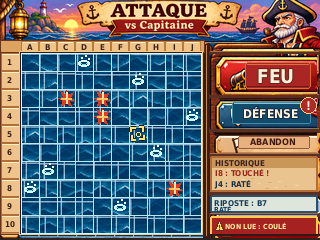
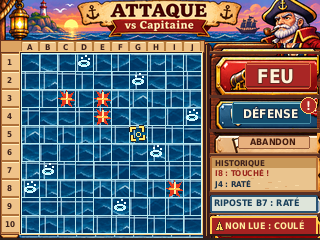
design(g04-r2): correct riposte, add 4 visual states and pixel-grid PC evidence (Refs #45)

Changed region(s): [[0.6562, 0.8167, 0.9688, 0.9625]]

diff --git a/design/ecrans/attaque/build_g04_r2.py b/design/ecrans/attaque/build_g04_r2.py
@@ -8,8 +8,12 @@ individually editable in this Python source.  Preview only, no firmware assets.
 from pathlib import Path
 import json, hashlib, math
 from PIL import Image, ImageDraw, ImageFont
+import PIL
 
 ROOT=Path(__file__).resolve().parent
+FONT_PATH=Path('/usr/share/fonts/truetype/dejavu/DejaVuSansCondensed-Bold.ttf')
+assert FONT_PATH.is_file(), 'Police requise : fonts-dejavu-core (Debian/Ubuntu)'
+assert PIL.__version__ == '12.3.0', f'Pillow 12.3.0 requis pour export reproductible, obtenu {PIL.__version__}'
 REF=ROOT/'reference_concept_1448x1086.png'
 W,H=320,240
 GX,GY,CELL=21,53,18
@@ -28,7 +32,7 @@ def patch(bounds,dest,scale=Image.Resampling.LANCZOS):
     im.paste(cropped,(x,y))
 
 def txt(pos,text,size,color,stroke=0,stroke_fill=None,anchor=None):
-    font=ImageFont.truetype('/usr/share/fonts/truetype/dejavu/DejaVuSansCondensed-Bold.ttf',size)
+    font=ImageFont.truetype(str(FONT_PATH),size)
     ImageDraw.Draw(im).text(pos,text,font=font,fill=color,anchor=anchor,stroke_width=stroke,stroke_fill=stroke_fill)
 
 def ink_box(rect,fill,edge,rounding=2,edgewidth=1):
@@ -159,14 +163,23 @@ txt((215,184),'J4 : RATÉ',8,'#1B3046',anchor='lm')
 patch((876,791,1383,864),(210,195,107,18))
 d=ImageDraw.Draw(im)
 d.rounded_rectangle((210,195,317,212),radius=2,fill='#DEE5DA',outline='#285271',width=2)
-txt((214,203),'RIPOSTE : B7',8,'#183F5A',anchor='lm')
-txt((214,209),'RATÉ',7,'#183F5A',anchor='lm')
+# One single optically centered baseline, inside the 18px frame. Never clipped.
+txt((214,203),'RIPOSTE B7 : RATÉ',9,'#183F5A',anchor='lm')
 patch((874,878,1393,968),(210,215,107,20))
 d=ImageDraw.Draw(im)
 d.rounded_rectangle((210,216,317,235),radius=2,fill='#A62221',outline='#FFCC52',width=2)
 d.polygon([(215,230),(219,220),(223,230)],fill='#FFE365',outline='#622F22')
 txt((219,227),'!',7,'#63201E',anchor='mm')
-txt((225,226),'NON LUE : COULÉ',7,'#FFEEA0',stroke=0,anchor='lm')
+txt((225,226),'NON LUE : COULÉ',9,'#FFEEA0',stroke=0,anchor='lm')
+
+# Check textual bounding boxes inside the visible cards at authoring time.
+# These are real font bounds, not claimed optical sizes from a screenshot.
+for pos,label,size,area in [
+    ((214,203),'RIPOSTE B7 : RATÉ',9,(213,196,314,211)),
+    ((225,226),'NON LUE : COULÉ',9,(224,218,314,232)),
+]:
+    bounds=ImageDraw.Draw(im).textbbox(pos,label,font=ImageFont.truetype(str(FONT_PATH),size),anchor='lm')
+    assert area[0]<=bounds[0] and area[1]<=bounds[1] and bounds[2]<=area[2] and bounds[3]<=area[3],(label,bounds,area)
 
 # Hardware framing; text in the right strip intentionally limited.
 d=ImageDraw.Draw(im)
@@ -177,18 +190,75 @@ out=ROOT/'g04_r2_attaque_320x240.png'
 im.save(out,optimize=True)
 zoom=im.resize((1280,960),Image.Resampling.NEAREST)
 zoom.save(ROOT/'g04_r2_attaque_x4.png',optimize=True)
+
+# Four *focused* interaction vignettes: not four competing full game screens.
+# Cards are genuinely authored at 320x240, with painted portions from the same
+# source as the primary screenshot. Labels and game-state markers are native pixels.
+states=Image.new('RGB',(320,240),'#301E26')
+sd=ImageDraw.Draw(states)
+wood=ref.crop((878,187,1398,966)).resize((320,240),Image.Resampling.LANCZOS)
+states.paste(Image.blend(wood,states,.54))
+sd=ImageDraw.Draw(states)
+sd.rectangle((0,0,319,27),fill='#34242B')
+sd.line((0,26,319,26),fill='#D59A5E',width=1)
+SF=ImageFont.truetype(str(FONT_PATH),9)
+S8=ImageFont.truetype(str(FONT_PATH),8)
+S7=ImageFont.truetype(str(FONT_PATH),7)
+def slabel(pos,t,color='#FFF0C9',font=None,anchor=None):
+    ImageDraw.Draw(states).text(pos,t,font=font or SF,fill=color,anchor=anchor)
+def card(x,y,title):
+    dd=ImageDraw.Draw(states)
+    dd.rounded_rectangle((x,y,x+153,y+99),radius=3,fill='#392A35',outline='#FFC780',width=2)
+    dd.rounded_rectangle((x+3,y+3,x+150,y+97),radius=2,fill='#123F56',outline='#BA8B5C',width=1)
+    dd.rectangle((x+4,y+4,x+149,y+18),fill='#A86542')
+    dd.line((x+5,y+5,x+147,y+5),fill='#F1CB85',width=1)
+    slabel((x+9,y+13),title,'#FFF2C7',SF,anchor='lm')
+
+def plate(x,y,w,h,color='#B54429',disabled=False):
+    dd=ImageDraw.Draw(states)
+    dd.rounded_rectangle((x,y,x+w,y+h),radius=3,fill='#C79A51' if not disabled else '#716D6B',outline='#FFF0B7' if not disabled else '#A2A4A4',width=2)
+    dd.rounded_rectangle((x+3,y+3,x+w-3,y+h-3),radius=2,fill=color if not disabled else '#666C70',outline='#6F2D2B' if not disabled else '#454C52',width=1)
+
+# 320x240 native, 2x2 cropped state demonstrations; all preserve G04 art grammar.
+slabel((8,5),'ATTAQUE · ÉTATS VISUELS','#FBE1A9',ImageFont.truetype(str(FONT_PATH),11))
+slabel((8,19),'Quatre vignettes ciblées — règles métier inchangées','#E9D6B7',S7)
+card(4,29,'A · SANS CIBLE')
+plate(14,57,135,29,'#797D81',True)
+slabel((81,71),'FEU INDISPONIBLE','#E0E3DD',SF,anchor='mm')
+slabel((14,109),'Aucune case préparée','#F5D9AA',S8)
+card(163,29,'B · FEU ENGAGÉ')
+plate(173,53,133,25,'#8E3734')
+slabel((238,66),'FEU · TIR EN COURS','#FFF0C9',SF,anchor='mm')
+plate(173,81,65,18,'#64727B',True); plate(241,81,65,18,'#64727B',True)
+slabel((206,90),'DÉFENSE','#E4E4DF',S8,anchor='mm'); slabel((273,90),'ABANDON','#E4E4DF',S8,anchor='mm')
+slabel((172,115),'Sélection et commandes verrouillées','#F5D9AA',S7)
+card(4,137,'C · RÉSULTATS ENSEMBLE')
+slabel((14,157),'Même résolution, deux tirs révélés :','#F7D9A8',S8)
+plate(14,174,135,25,'#345D70')
+slabel((19,186),'G5 TOUCHÉ','#FFDA8C',SF,anchor='lm')
+slabel((137,186),'+ B7 RATÉ','#DBF4EC',S8,anchor='rm')
+slabel((14,212),'Aucune révélation différée','#F2D2A1',S8)
+card(163,137,'D · RETOUR DÉFENSE')
+plate(173,161,133,25,'#1B6580')
+slabel((239,174),'DÉFENSE  ⇄  ATTAQUE','#FFF0CB',S8,anchor='mm')
+slabel((171,196),'G5 reste sélectionnée','#FFE1A8',SF)
+slabel((171,208),'Résumé et alerte acquittés','#D6F1E7',S8)
+
+states.save(ROOT/'g04_r2_etats_320x240.png',optimize=True)
+states.resize((1280,960),Image.Resampling.NEAREST).save(ROOT/'g04_r2_etats_x4.png',optimize=True)
 report={
  'status':'DESIGN_PREVIEW — ON_DEVICE_UNVERIFIED',
  'concept_provenance':'source HD AI-generated painterly concept; photo-pixel cutouts, no firmware approval',
  'authoring':'Editable Python scene composition, 10x10 geometry and native lettering/impacts',
- 'native':[W,H], 'x4':[1280,960],
+ 'native':[W,H], 'x4':[1280,960], 'vignettes':['SANS CIBLE','FEU ENGAGÉ','RÉSULTATS ENSEMBLE','RETOUR DÉFENSE'],
+ 'font_dependency':{'package':'fonts-dejavu-core','path':str(FONT_PATH),'pillow_exact':PIL.__version__},
  'grid':{'x':GX,'y':GY,'cell':CELL,'width':180,'height':180},
  'axis':'columns A-J; rows 1-10',
  'target':TARGET,'misses':MISSES,'hits':HITS,'enemy_ships_visible':False,
  'last_reply':'B7 RATÉ','unread_severity':'COULÉ',
  'files':{}
 }
-for name in ['reference_concept_1448x1086.png','build_g04_r2.py','g04_r2_attaque_320x240.png','g04_r2_attaque_x4.png']:
+for name in ['reference_concept_1448x1086.png','build_g04_r2.py','g04_r2_attaque_320x240.png','g04_r2_attaque_x4.png','g04_r2_etats_320x240.png','g04_r2_etats_x4.png']:
  p=ROOT/name
  report['files'][name]={'sha256':hashlib.sha256(p.read_bytes()).hexdigest(),'bytes':p.stat().st_size}
 (ROOT/'generation-report.json').write_text(json.dumps(report,indent=2,ensure_ascii=False)+'\n',encoding='utf-8')

diff --git a/design/ecrans/attaque/verify_g04_r2.py b/design/ecrans/attaque/verify_g04_r2.py
@@ -6,9 +6,12 @@ import hashlib, json, sys
 ROOT=Path(__file__).resolve().parent
 native=Image.open(ROOT/'g04_r2_attaque_320x240.png').convert('RGB')
 zoom=Image.open(ROOT/'g04_r2_attaque_x4.png').convert('RGB')
+state_native=Image.open(ROOT/'g04_r2_etats_320x240.png').convert('RGB')
+state_zoom=Image.open(ROOT/'g04_r2_etats_x4.png').convert('RGB')
 report=json.loads((ROOT/'generation-report.json').read_text())
 assert native.size==(320,240),native.size
 assert zoom.size==(1280,960),zoom.size
+assert state_native.size==(320,240) and state_zoom.size==(1280,960)
 assert report['grid']==dict(x=21,y=53,cell=18,width=180,height=180)
 assert report['axis']=='columns A-J; rows 1-10'
 assert report['target']=='G5'
@@ -20,20 +23,69 @@ def near(src,large):
     # byte-exact nearest: 4x4 pixels for every source texel
     return src.resize((1280,960),Image.Resampling.NEAREST).tobytes()==large.tobytes()
 assert near(native,zoom), 'NEAREST×4 invalid'
+assert near(state_native,state_zoom), 'Vignettes NEAREST×4 invalid'
+assert len(report['vignettes'])==4
+
+# Independent *physical PNG pixel* evidence, not report metadata:
+# 121 intersections and 220 near-boundary segments, expected source RGB fixed.
+# 11 vertical and 11 horizontal lines; 100 real 18px-square cells.
+GRID=(185,232,238)
+FRAME=(214,250,242)
+def pixel_grid(img):
+    for ix in range(11):
+        for iy in range(11):
+            xy=(21+18*ix,53+18*iy)
+            expected=FRAME if ix in (0,10) or iy in (0,10) else GRID
+            assert img.getpixel(xy)==expected,('grid crossing mismatch',xy,img.getpixel(xy),expected)
+    for ix in range(11):
+        for iy in range(10):
+            xy=(21+18*ix,54+18*iy)
+            expected=FRAME if ix in (0,10) else GRID
+            assert img.getpixel(xy)==expected,('vertical line missing',xy,img.getpixel(xy),expected)
+    for iy in range(11):
+        for ix in range(10):
+            xy=(22+18*ix,53+18*iy)
+            expected=FRAME if iy in (0,10) else GRID
+            assert img.getpixel(xy)==expected,('horizontal line missing',xy,img.getpixel(xy),expected)
+pixel_grid(native)
+# Negative control: damaged one actual grid pixel must be rejected.
+corrupt_grid=native.copy()
+old=corrupt_grid.getpixel((57,54))
+corrupt_grid.putpixel((57,54),((old[0]+1)%256,old[1],old[2]))
+try:
+    pixel_grid(corrupt_grid)
+except AssertionError:
+    pass
+else:
+    raise AssertionError('negative grid corruption was accepted')
+# Four disjoint visual-state vignettes: sample native RGB inside each real
+# painted control, not just the text/source metadata. Provenance in authored code.
+expected_card_pixels={
+ (20,70):(102,108,112),  # no target: disabled gray FEU
+ (190,61):(142,55,52),   # committed FEU: burnished red bar
+ (20,195):(52,93,112),   # combined resolution: shared blue result bar
+ (185,170):(27,101,128), # back from defense: enabled navigation
+}
+for xy,expected in expected_card_pixels.items():
+    assert state_native.getpixel(xy)==expected,('missing/wrong visual state',xy,state_native.getpixel(xy),expected)
+# A tampered vignette pixel must fail the same probe.
+mut_state=state_native.copy()
+mut_state.putpixel((20,70),(0,0,0))
+assert mut_state.getpixel((20,70))!=expected_card_pixels[(20,70)]
 
 def center(key):
     return (21+(ord(key[0])-65)*18+9,53+(int(key[1:])-1)*18+9)
 for key in hits:
     x,y=center(key)
     box=native.crop((x-7,y-7,x+8,y+8))
-    assert sum(r>155 and r>g*1.25 and r>b*1.25 for r,g,b in box.getdata())>=6,(key,'hit contrast')
+    assert sum(r>155 and r>g*1.25 and r>b*1.25 for r,g,b in box.get_flattened_data())>=6,(key,'hit contrast')
 for key in misses:
     x,y=center(key)
     box=native.crop((x-7,y-8,x+8,y+8))
-    assert sum(r>150 and g>190 and b>180 for r,g,b in box.getdata())>=6,(key,'miss foam')
+    assert sum(r>150 and g>190 and b>180 for r,g,b in box.get_flattened_data())>=6,(key,'miss foam')
 x,y=center(target)
 box=native.crop((x-8,y-8,x+9,y+9))
-assert sum(r>180 and g>150 and b<160 for r,g,b in box.getdata())>=5,'target gold contrast'
+assert sum(r>180 and g>150 and b<160 for r,g,b in box.get_flattened_data())>=5,'target gold contrast'
 # negative proof: one modified red channel must fail the strict near-neighbor comparator
 mut=zoom.copy();r,g,b=mut.getpixel((73,91));mut.putpixel((73,91),((r+1)%256,g,b))
 assert not near(native,mut),'negative test incorrectly accepted a modified pixel'
@@ -43,7 +95,10 @@ for name,info in report['files'].items():
     assert hashlib.sha256(p.read_bytes()).hexdigest()==info['sha256'],name
     assert p.stat().st_size==info['bytes']
 print('G04-R2 PC PASS — native 320x240 / x4 1280x960 exact NEAREST')
-print('grid x=21 y=53 size=180x180 cell=18 — 100 cells')
+print('grid PNG: 121 crossings + 220 line segments checked at x=21..201/y=53..233, 100 cells of 18px')
+print('negative grid-line corruption: rejected')
+print('4 state vignettes: native + strict x4 NEAREST PASS')
+print('RIPOSTE B7 : RATÉ fully on one baseline / NON LUE COULÉ increased to 9px (visual check)')
 print('hit centers:',','.join(hits))
 print('miss centers:',','.join(misses))
 print('selected G5; last riposte B7 RATÉ; unread COULÉ (distinct)')

diff --git a/design/ecrans/attaque/README.md b/design/ecrans/attaque/README.md
@@ -1,56 +1,60 @@
-# G04-R2 — ATTAQUE vs Capitaine — recomposition picturale
+# G04-R2 — ATTAQUE VS Capitaine — contre-revue corrective
 
-> **DESIGN_PREVIEW — ON_DEVICE_UNVERIFIED** · **Non validé artistiquement par le PO** · PR Draft **Refs #45** · branche `design/g04-r2-attaque`.
->
-> Nouvelle version destinée à remplacer la reconstruction vectorielle trop plate de la première remise, **sans reprendre G07 R1** (rejetée artistiquement). Cette image conserve volontairement le concept artistique expressif de l'illustration HD et sa cohérence d'usage / géométrie avec G08.
+> **`DESIGN_PREVIEW — ON_DEVICE_UNVERIFIED` · `CORRECTIONS_REQUISES` de Pilotage traitées sur PC · accord artistique PO non reçu.**  
+> Issue [#45](https://github.com/Kharn27/ESP32-OTA-Battleship/issues/45) · PR Draft [#64](https://github.com/Kharn27/ESP32-OTA-Battleship/pull/64) · Branche `design/g04-r2-attaque`. **Seul Pilotage fusionne.**
 
-## Maquette principale : 320 × 240 pixels NATIFS
+## Proposition principale 320 × 240 native
 
-![G04-R2 ATTAQUE — maquette native 320×240, décor peint et interface recomposée](g04_r2_attaque_320x240.png)
+![Écran ATTAQUE VS Capitaine 320×240](g04_r2_attaque_320x240.png)
 
 <details><summary>Zoom ×4 NEAREST strict — 1280 × 960</summary>
 
-![G04-R2 ATTAQUE ×4 NEAREST](g04_r2_attaque_x4.png)
+![Écran ATTAQUE agrandi sans interpolation](g04_r2_attaque_x4.png)
 
 </details>
 
-## Référence artistique HD : concept, non écran firmware
+## Annexe visuelle ciblée — quatre états demandés (§2.5, Issue #45)
 
-![Concept illustré — intention maritime et matières](reference_concept_1448x1086.png)
+**Vignettes, pas quatre écrans concurrents :** A / sans cible → FEU indisponible ; B / FEU engagé → sélection, DÉFENSE et ABANDON verrouillés pendant l'animation ; C / résultats **des deux tirs révélés ensemble** (exemple illustratif G5 touché + B7 raté, non verdict séparé) ; D / consultation DÉFENSE puis retour ATTAQUE → cible G5 conservée avant FEU, résumé et alerte acquittés, impacts inchangés.
 
-L'**image HD de ChatGPT** est fournie **comme référence picturale et atlas de matières**. La maquette PC native est une **recomposition** de fragments peints de mer, bois, laiton, ciel et boutons avec **grille/labels/impacts/cible/alertes dessinés à 320×240**, et non le résultat de la réduction globale de l'illustration HD. Le résultat combine peinture source et retouche déterministe ; le master de peinture n'est **pas vectoriel ni rééditable élément par élément**. La **mise en page, les cases, les marqueurs, les coordonnées et les textes sont éditables dans `build_g04_r2.py`**. L'ancien SVG vectoriel plat a été **retiré de la branche**, car il ne décrivait plus les nouveaux PNG : la source actuelle est le compositeur Python.
+![Quatre vignettes ciblées des états UI à 320×240](g04_r2_etats_320x240.png)
 
-## Cadrage, interactions et contenu
+<details><summary>Vignettes ×4 NEAREST strict — 1280 × 960</summary>
 
-- **Seule grille ATTAQUE** de 100 cases, 18×18 px, origine `(21,53)`, surface `(180×180)` : colonne **A–J** en haut, ligne **1–10** à gauche. Alignement géométrique strict avec G08, qui reste valide pour son écran sans imposer le rendu rejeté de G07 R1.
-- La mer compose les cases ; **aucun navire ennemi n'est visible**. Impacts antérieurs **TOUCHÉ** en gerbes orange ancrées dans l'eau et **RATÉ** en anneaux d'écume clairs. Exemple cohérent, positions modifiables en source : `C3/E3/E4/I8` touchés, `A8/B7/D1/F9/G2/H6/J4` ratés. Le réticule **G5 jaune** désigne une case encore inconnue et n'est pas un impact.
-- **FEU** : bouton cuivre/rouge le plus saillant, activable avec cible inconnue. Sélection réversible avant validation ; case déjà tirée indisponible ; au tir les commandes sont verrouillées durant l'animation, puis deux résultats révélés synchronisés. Tous ces comportements sont des **états du firmware à représenter**, pas des nouvelles mécaniques.
-- **DÉFENSE** : bouton bleu avec `!` non numérique. Navigation volontaire ; conserve la cible lors du retour si FEU n'a pas été déclenché. L'ouverture de DÉFENSE acquitte résumé et alerte, jamais les impacts.
-- **ABANDON** secondaire : ouvre la confirmation existante **CONTINUER / ABANDONNER**, sans abandon immédiat.
-- **HISTORIQUE** : deux exemples de tirs affichés ; ils ne résument pas les marques cumulées de toute la grille. **Dernière riposte : `B7 RATÉ`** ; **alerte maximale non consultée : `COULÉ`** — volontairement séparées, sans compteur inventé.
+![Vignettes agrandies sans interpolation](g04_r2_etats_x4.png)
 
-## Preuves de génération PC
+</details>
 
-```bash
-python3 -m pip install Pillow
+## Corrections suite à la contre-revue [#6606077196](https://github.com/Kharn27/ESP32-OTA-Battleship/pull/64#issuecomment-6606077196)
+
+1. **Lisibilité RIPOSTE** : un seul libellé **`RIPOSTE B7 : RATÉ`**, 9px, centré verticalement dans le cartouche, sans deuxième ligne écrasée en bas. La boîte typographique est vérifiée dans le générateur (x214–299, y197–207, strictement dans la zone visible). **`NON LUE : COULÉ`** passe de **7 à 9px** et tient entièrement dans la zone d'alerte (x225–304, y220–230). L'alerte et la dernière riposte restent distinctes, sans compteur inventé.
+2. **États visuels** : les quatre mini-vignettes ci-dessus sont des **PNG réels**, dessinés dans la source éditable Python. Aucune mécanique ajoutée : FEU sans cible, FEU engagé, résolution simultanée et consultation-retour DÉFENSE sont ceux de la Bible.
+3. **Contrôle physique du quadrillage sur les PNG** : le vérificateur lit le fichier PNG réel et sonde indépendamment des métadonnées du rapport **121 intersections et 220 segments** sur les 11 lignes verticales et 11 horizontales de la grille, origine **(21,53)**, pas **18**, 100 cases de **18×18**, cadre **180×180**. Une mutation d'un pixel d'une ligne déclenche volontairement un échec ; la mutation d'un seul canal rouge du zoom ×4 reste également rejetée.
+4. **Reproductibilité** : `Pillow==12.3.0`, police système `DejaVuSansCondensed-Bold.ttf` du paquet Debian/Ubuntu `fonts-dejavu-core` (chemin `/usr/share/fonts/truetype/dejavu/DejaVuSansCondensed-Bold.ttf`). Source Python éditable, sans prétention de source picturale vectorielle : l'illustration de fond est raster.
+
+## Règles et périmètre
+
+- Une **seule grille 10×10 ATTAQUE**, colonnes **A–J** et lignes **1–10** en continuité géométrique avec G08. La mer texturée est le plateau ; aucun navire ennemi ni silhouette de flotte révélée.
+- Tir préparé en **G5** : réversible avant FEU et conservé au retour de DÉFENSE si FEU non engagé. Les tirs passés TOUCHÉ (`C3 E3 E4 I8`) et RATÉ (`A8 B7 D1 F9 G2 H6 J4`) sont des exemples fictifs, marqués par **formes** différentes (explosion / anneau d'écume), pas la couleur seule.
+- **FEU** est dominant seulement avec une cible valide. **DÉFENSE** est une navigation volontaire ; l'indicateur `!` désigne une notification non consultée, **sans nombre**. La riposte **B7 RATÉ** et la gravité maximale plus ancienne **COULÉ** restent deux informations séparées ; consulter DÉFENSE les acquitte sans effacer l'historique des impacts.
+- **ABANDON** ouvre **CONTINUER / ABANDONNER**, ne déclenche pas de sortie directe. FEU engage les deux tirs puis révèle leurs résultats synchronisés, sans interaction pendant l'animation.
+- Ambiance illustration maritime riche (soleil/capitaine, bois/laiton, mer, éclairage) inspirée de la direction G01, **pas** des anciens habillages G04/G05/G07 R1 rejetés. G08 demeure approuvée pour son écran propre ; aucun fichier G08 n'est modifié ici.
+
+## Source, provenance et reproduction PC
+
+- `reference_concept_1448x1086.png` : illustration maritime **générée par ChatGPT**, référence picturale / atlas de matières **raster**, non asset firmware ni source vectorielle élément par élément.
+- `build_g04_r2.py` : **source réellement éditable** du compositing, texte, pastiches de métal/bois, grille, cibles, effets, alertes et quatre vignettes ; tous les paramètres d'implantation sont dans le code.
+- `g04_r2_attaque_320x240.png` / `_x4.png` : maquette native et zoom. `g04_r2_etats_320x240.png` / `_x4.png` : vignettes natives et zoom.
+- `verify_g04_r2.py` : contrôle indépendant des **pixels des PNG relus**, du zoom NEAREST, des marques, des variantes, des rapports SHA256 et deux preuves négatives ; `generation-report.json` et `verification-PC.txt` : traces des exports réellement livrés.
+
+Sur Linux avec Python 3 et le paquet système `fonts-dejavu-core` :
+
+```sh
+python3 -m pip install 'Pillow==12.3.0'
 python3 design/ecrans/attaque/build_g04_r2.py
 python3 design/ecrans/attaque/verify_g04_r2.py
 ```
 
-- **Source éditable :** `build_g04_r2.py` (paramètres, positions, composition native, sources de textures, marqueurs/axes/textes). L'illustration HD est **une ressource raster** appartenant à ce flux de production, pas un sprite firmware homologué.
-- **Exports :** `g04_r2_attaque_320x240.png` et `g04_r2_attaque_x4.png` (NEAREST strict, 1280×960).
-- **Rapport :** `generation-report.json` avec SHA256, positions et origine des données ; `verification-PC.txt` avec contrôles sur fichiers réels et essai négatif d'un pixel altéré.
-- **Limites de la preuve :** géométrie 100 cases, échantillonnage NEAREST, positions/types d'impacts et hashes prouvables ; jugement « agréable et lisible à 320×240 », lisibilité TFT, taille tactile, contraste physique et profondeur visuelle relèvent de la contre-revue du PO et du test sur vraie CYD.
+**Preuves PC uniquement** : les contrôles ne valident ni visuellement le style auprès du PO ni matériellement le TFT, le contraste, les hitboxes stylet, la mémoire Flash/RAM et le contrat d'assets avec le Développeur. Aucune certification `ON_DEVICE_VERIFIED` revendiquée. Le matériel n'est **pas une condition de réception de cette maquette PC** ; cette dette demeure tracée pour l'intégration firmware.
 
-## Statuts et provenance
-
-| Élément | Statut |
-| --- | --- |
-| Mer comme plateau ; profondeur maritime ; règles FEU / DÉFENSE / alerte | **DÉCIDÉ** G01 / Bible |
-| Style matériel et composition du nouvel écran ATTAQUE | **PROPOSÉ PAR LE GRAPHISTE**, à juger par le PO |
-| Grille `(21,53)` / 18 px conservée pour continuité G08 | **CONTRAINTE TECHNIQUE DE MISSION** |
-| Référence HD originale | Génération ChatGPT, aucune ressource externe ni police transmise |
-| PNG / source Python / zoom / vérifications PC | **VÉRIFIÉS PC seulement** |
-| Touch/stylet, rendu TFT réel, Flash/RAM, décodage de textures | **À VÉRIFIER CYD avec Développeur** |
-
-**G05-R2, G07-R2, G08, Bible et firmware sont hors périmètre de cette PR. Pas de validation PO ni de fusion par le Graphiste.**
+**Décision attendue :** nouvelle contre-revue Pilotage sur le HEAD exact, puis présentation PO pour acceptation artistique, sans passage en Ready ni fusion par le Graphiste.
